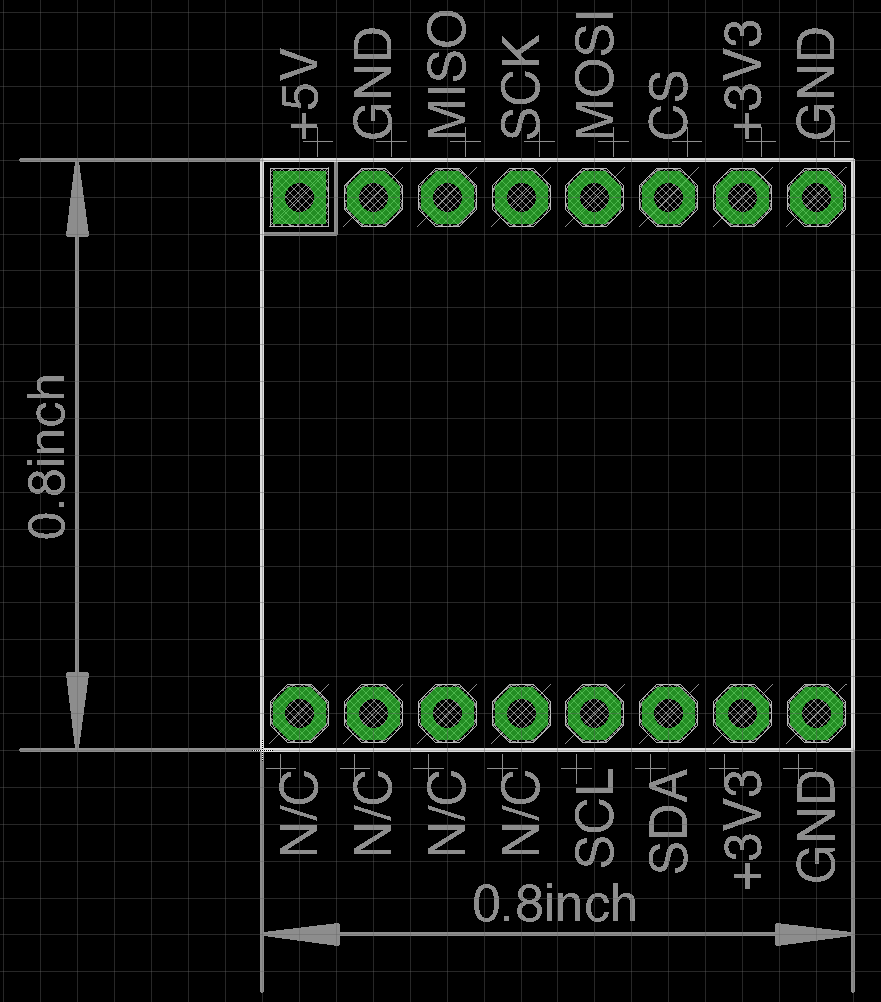
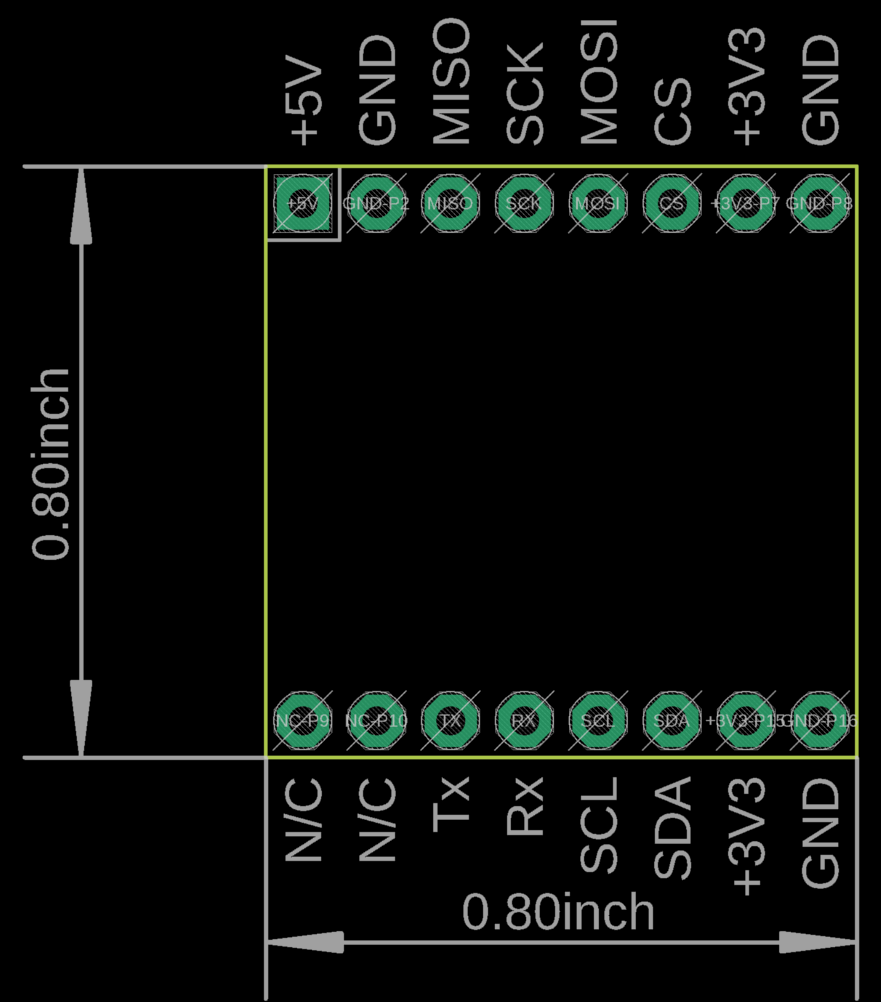
Add UART and change to version 2

Changed region(s): [[0.0, 0.0, 0.9807, 1.0]]

diff --git a/README.md b/README.md
@@ -1,8 +1,9 @@
 ### MiniBadge Library
 
 #### By Luke Jenkins
+##### UART Added by [Mike Julander](https://github.com/Sodium-Hydrogen)
 
-Version 1.0  
+Version 2.0  
 
 This library is provided as is. Use at your own risk.  
 
